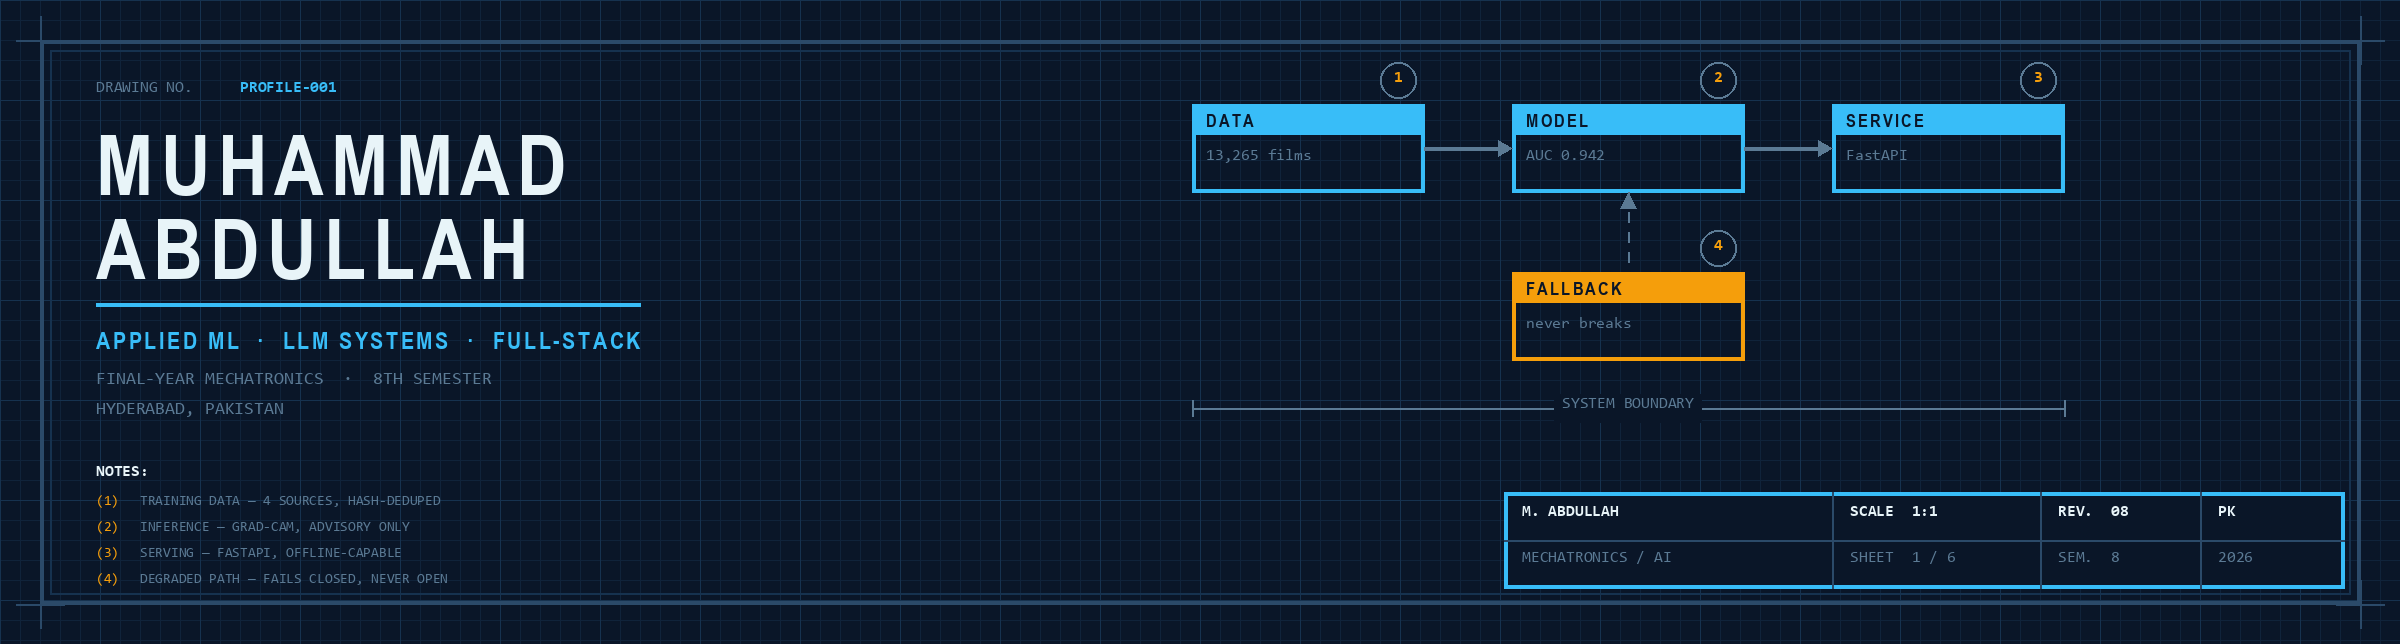
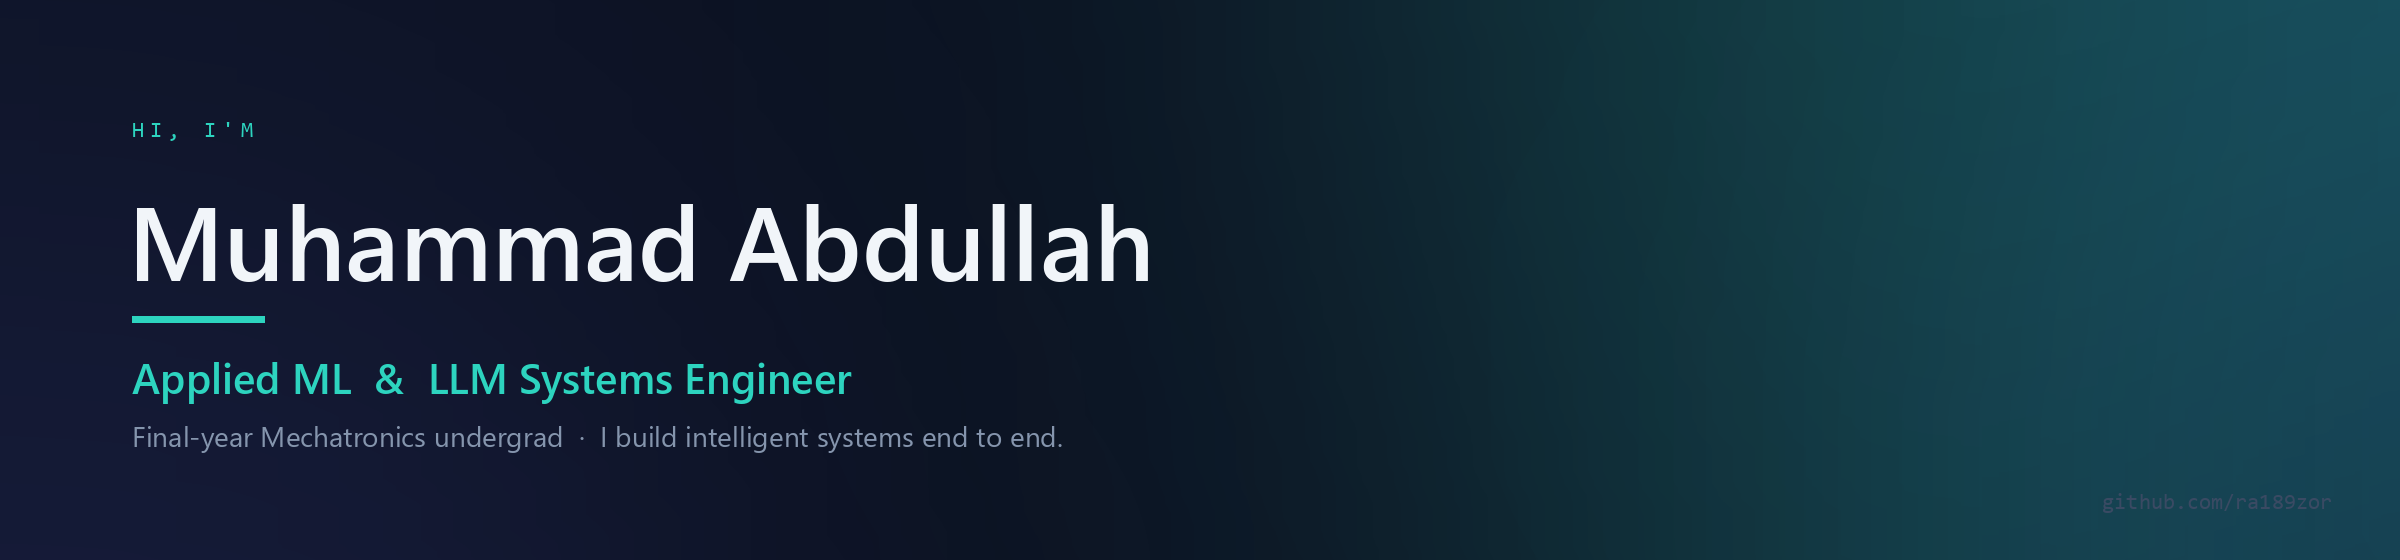
.

diff --git a/README.md b/README.md
@@ -1,202 +1,90 @@
-<img src="assets/banner.png" alt="Muhammad Abdullah - Applied ML, LLM Systems, Full-stack" width="100%" />
+<img src="assets/banner.png" width="100%" alt="Muhammad Abdullah — Applied ML & LLM Systems Engineer" />
 
 <div align="center">
 
-
-<a href="https://www.linkedin.com/in/abdullah-kaimkhani-09b1292b9/">
-<img src="https://img.shields.io/badge/LinkedIn-0A1628?style=for-the-badge&logo=linkedin&logoColor=38BDF8" alt="LinkedIn" /></a>
-<a href="mailto:bbr70686@gmail.com">
-<img src="https://img.shields.io/badge/Email-0A1628?style=for-the-badge&logo=gmail&logoColor=38BDF8" alt="Email" /></a>
-<img src="https://img.shields.io/badge/Hyderabad,_PK-0A1628?style=for-the-badge&logo=googlemaps&logoColor=38BDF8" alt="Location" />
+<a href="https://www.linkedin.com/in/abdullah-kaimkhani-09b1292b9/"><img src="https://img.shields.io/badge/LinkedIn-0B1120?style=for-the-badge&logo=linkedin&logoColor=2DD4BF" alt="LinkedIn" /></a>&nbsp;
+<a href="mailto:bbr70686@gmail.com"><img src="https://img.shields.io/badge/Email-0B1120?style=for-the-badge&logo=gmail&logoColor=2DD4BF" alt="Email" /></a>&nbsp;
+<a href="https://github.com/ra189zor?tab=repositories"><img src="https://img.shields.io/badge/Repositories-0B1120?style=for-the-badge&logo=github&logoColor=2DD4BF" alt="Repositories" /></a>
 
 </div>
 
----
+<br/>
 
-<img src="assets/s01.png" alt="System Identity" width="100%" />
+## 👋 &nbsp; About me
 
-I build applied-ML and LLM systems end to end — train the model, wrap it in a service that fails gracefully, and put a real interface in front of it. The part I care most about is what happens when the model is wrong, the network is gone, or the data is thinner than the claim.
+- 🎓 &nbsp; Final-year **Mechatronics** undergraduate (8th semester) in Hyderabad, Pakistan
+- 🧠 &nbsp; I build **applied-ML and LLM systems end to end** — the model, the service around it, and the interface people actually use
+- 🩺 &nbsp; Proudest of **[Saans](https://github.com/ra189zor/Saans)**, an offline-first paediatric TB-screening app built on the WHO 2022 clinical algorithm
+- 🔍 &nbsp; I care most about the unglamorous parts — what happens when the model is wrong, the network drops, or the data is thinner than the claim
+- 📫 &nbsp; Reach me on [LinkedIn](https://www.linkedin.com/in/abdullah-kaimkhani-09b1292b9/) or at **bbr70686@gmail.com**
 
-Most of what follows is about that.
+<br/>
 
----
+## 🚀 &nbsp; Featured projects
 
-<img src="assets/s02.png" alt="Architecture Overview" width="100%" />
+### 🩺 &nbsp; [Saans](https://github.com/ra189zor/Saans) — offline paediatric TB screening
 
-```mermaid
-flowchart LR
-    subgraph INPUT [ Input Layer ]
-        direction TB
-        D1["13,265 chest X-rays"]
-        D2["1,055 WHO handbook passages"]
-        D3["Cough audio + acoustic features"]
-        D4["Live Discord community traffic"]
-    end
+> An offline-first tablet app for community health workers, implementing the WHO Tuberculosis *Module 5 (2022)* decision algorithm. Three ML assists advise the health worker but can **never** override the clinical score.
 
-    subgraph CORE [ Processing Pipeline ]
-        direction TB
-        P1["ML Training + Grad-CAM"]
-        P2["LLM System Design"]
-        P3["Service Layer + Graceful Degradation"]
-    end
+- **Chest X-ray** — DenseNet121 + Grad-CAM over 13,265 films → **0.942 AUC**, 95.1% recall
+- **Cough analysis** — RandomForest over 66 acoustic features, evaluated *by age band* rather than assumed
+- **WHO assistant** — two-stage local retrieval (MiniLM → cross-encoder rerank) that cites a page or refuses
+- Bilingual English / Urdu with full RTL · installable PWA · runs completely offline
 
-    subgraph OUTPUT [ Output Layer ]
-        direction TB
-        O1["Production Systems"]
-        O2["Honest Benchmarks"]
-        O3["Fail-safe Defaults"]
-    end
+&nbsp;&nbsp;&nbsp;&nbsp;![React](https://img.shields.io/badge/React_19-1E293B?style=flat-square&logo=react&logoColor=61DAFB) ![FastAPI](https://img.shields.io/badge/FastAPI-1E293B?style=flat-square&logo=fastapi&logoColor=009688) ![TensorFlow](https://img.shields.io/badge/TensorFlow-1E293B?style=flat-square&logo=tensorflow&logoColor=FF6F00) ![ONNX](https://img.shields.io/badge/ONNX_Runtime-1E293B?style=flat-square&logo=onnx&logoColor=white) ![Docker](https://img.shields.io/badge/Docker-1E293B?style=flat-square&logo=docker&logoColor=2496ED)
 
-    D1 --> P1
-    P3 --> O1
+### 🤖 &nbsp; AI-Powered Discord Automation Platform &nbsp;·&nbsp; *private*
 
-    classDef input fill:#0A1628,stroke:#38BDF8,color:#38BDF8
-    classDef proc fill:#0A1628,stroke:#7DD3FC,color:#7DD3FC
-    classDef output fill:#0A1628,stroke:#F59E0B,color:#F59E0B
-    class D1,D2,D3,D4 input
-    class P1,P2,P3 proc
-    class O1,O2,O3 output
-```
+> An event-driven Discord bot, an LLM interaction pipeline, and a FastAPI control panel running as one async application for a live community.
 
-> **Cross-cutting concerns applied to every layer:**
-> Security · Privacy by default · Observability · Graceful degradation
+- **Treats the LLM as untrusted** — a 5-layer prompt-injection defence, output filtered before it ever ships, every attempt logged
+- **Runs inside a free-tier budget** — thread-safe multi-key rotation + a token-budget manager that trims context instead of failing
+- 5-layer context injection · function-calling long-term memory · async SQLite (WAL) · 11 scheduled background loops
 
----
+&nbsp;&nbsp;&nbsp;&nbsp;![Python](https://img.shields.io/badge/Python-1E293B?style=flat-square&logo=python&logoColor=3776AB) ![discord.py](https://img.shields.io/badge/discord.py-1E293B?style=flat-square&logo=discord&logoColor=5865F2) ![FastAPI](https://img.shields.io/badge/FastAPI-1E293B?style=flat-square&logo=fastapi&logoColor=009688) ![SQLite](https://img.shields.io/badge/SQLite-1E293B?style=flat-square&logo=sqlite&logoColor=0AA9E6) ![asyncio](https://img.shields.io/badge/asyncio-1E293B?style=flat-square&logo=python&logoColor=3776AB)
 
-<img src="assets/s03.png" alt="Subsystems" width="100%" />
+**Also built**
 
-### `01` Saans — Paediatric TB Screening
+- **[llm-observe-hub](https://github.com/ra189zor/llm-observe-hub)** — an OpenAI-compatible proxy that instruments local LLMs with cost, latency and alerts &nbsp;`FastAPI`
+- **[WorkflowWizard](https://github.com/ra189zor/WorkflowWizard)** — turns plain-English descriptions into importable n8n workflow JSON &nbsp;`React` `TypeScript`
+- **[fraud-detection-agent](https://github.com/ra189zor/fraud-detection-agent)** — Isolation Forest + a six-signal rule engine that learns from analyst feedback &nbsp;`scikit-learn`
+- **[MCP-Studio](https://github.com/ra189zor/MCP-Studio)** — generates and validates MCP servers across three model providers in parallel &nbsp;`asyncio`
 
-> Offline-first tablet app for community health workers implementing the WHO *Operational Handbook on Tuberculosis, Module 5* (2022) decision algorithm. Three ML assists inform the health worker and are **structurally prevented** from changing the score.
+<br/>
 
-```mermaid
-flowchart LR
-    subgraph pipeline [ Screening Pipeline ]
-        direction LR
-        A["Chest X-ray<br/>DenseNet121"] --> F["Clinical<br/>Score"]
-        B["Cough Audio<br/>66 features"] --> F
-        C["WHO Handbook<br/>RAG + Rerank"] --> F
-        F --> G["Health Worker<br/>Decision"]
-    end
+## 🛠 &nbsp; Tech stack
 
-    style pipeline fill:#0A1628,stroke:#38BDF8,color:#38BDF8
-```
+**Languages** &nbsp; ![Python](https://img.shields.io/badge/Python-2DD4BF?style=flat-square&logo=python&logoColor=0B1120) ![TypeScript](https://img.shields.io/badge/TypeScript-2DD4BF?style=flat-square&logo=typescript&logoColor=0B1120) ![JavaScript](https://img.shields.io/badge/JavaScript-2DD4BF?style=flat-square&logo=javascript&logoColor=0B1120) ![SQL](https://img.shields.io/badge/SQL-2DD4BF?style=flat-square&logo=postgresql&logoColor=0B1120)
 
-`0.942` AUC, honest single-site benchmark &nbsp;·&nbsp; `95.1%` recall (271/285) &nbsp;·&nbsp; `98.2%` specificity &nbsp;·&nbsp; `13,265` films across 4 hash-deduped sources
+**ML / Data** &nbsp; ![TensorFlow](https://img.shields.io/badge/TensorFlow-1E293B?style=flat-square&logo=tensorflow&logoColor=FF6F00) ![Keras](https://img.shields.io/badge/Keras-1E293B?style=flat-square&logo=keras&logoColor=D00000) ![scikit-learn](https://img.shields.io/badge/scikit--learn-1E293B?style=flat-square&logo=scikitlearn&logoColor=F7931E) ![ONNX](https://img.shields.io/badge/ONNX-1E293B?style=flat-square&logo=onnx&logoColor=white) ![NumPy](https://img.shields.io/badge/NumPy-1E293B?style=flat-square&logo=numpy&logoColor=4DABCF) ![pandas](https://img.shields.io/badge/pandas-1E293B?style=flat-square&logo=pandas&logoColor=white)
 
-> **The reported AUC is 0.942, not the 0.995 the pooled test set produces.** One source draws its TB and normal films from different collections that differ for reasons unrelated to disease, so the model separates them without reading pathology. The honest benchmark is the single hospital where both classes share equipment. Quoting the inflated number would have been easy, and wrong.
+**LLM** &nbsp; ![LangChain](https://img.shields.io/badge/LangChain-1E293B?style=flat-square&logo=langchain&logoColor=1C3C3C) ![CrewAI](https://img.shields.io/badge/CrewAI-1E293B?style=flat-square) ![RAG](https://img.shields.io/badge/RAG-1E293B?style=flat-square) ![MCP](https://img.shields.io/badge/MCP-1E293B?style=flat-square&logo=anthropic&logoColor=white) ![OpenAI](https://img.shields.io/badge/OpenAI-1E293B?style=flat-square&logo=openai&logoColor=white) ![Groq](https://img.shields.io/badge/Groq-1E293B?style=flat-square)
 
-**Technical detail.** Two-stage local retrieval — MiniLM bi-encoder on ONNX Runtime, then cross-encoder rerank, ~3 ms, refusing before it ever calls an API. No public paediatric dataset exists, so every model was trained on adults and scored *by age band* rather than assumed to transfer. Bilingual EN/UR with full RTL, installable PWA, fully offline.
+**Backend** &nbsp; ![FastAPI](https://img.shields.io/badge/FastAPI-1E293B?style=flat-square&logo=fastapi&logoColor=009688) ![Express](https://img.shields.io/badge/Express-1E293B?style=flat-square&logo=express&logoColor=white) ![PostgreSQL](https://img.shields.io/badge/PostgreSQL-1E293B?style=flat-square&logo=postgresql&logoColor=4169E1) ![SQLite](https://img.shields.io/badge/SQLite-1E293B?style=flat-square&logo=sqlite&logoColor=0AA9E6) ![SQLAlchemy](https://img.shields.io/badge/SQLAlchemy-1E293B?style=flat-square&logo=sqlalchemy&logoColor=white)
 
-<img src="https://img.shields.io/badge/React_19-0A1628?style=flat-square&logo=react&logoColor=38BDF8" height="22" /> <img src="https://img.shields.io/badge/FastAPI-0A1628?style=flat-square&logo=fastapi&logoColor=38BDF8" height="22" /> <img src="https://img.shields.io/badge/TensorFlow-0A1628?style=flat-square&logo=tensorflow&logoColor=38BDF8" height="22" /> <img src="https://img.shields.io/badge/ONNX_Runtime-0A1628?style=flat-square&logo=onnx&logoColor=38BDF8" height="22" /> <img src="https://img.shields.io/badge/Docker-0A1628?style=flat-square&logo=docker&logoColor=38BDF8" height="22" />
+**Frontend & Infra** &nbsp; ![React](https://img.shields.io/badge/React-1E293B?style=flat-square&logo=react&logoColor=61DAFB) ![Vite](https://img.shields.io/badge/Vite-1E293B?style=flat-square&logo=vite&logoColor=646CFF) ![Tailwind](https://img.shields.io/badge/Tailwind-1E293B?style=flat-square&logo=tailwindcss&logoColor=06B6D4) ![Streamlit](https://img.shields.io/badge/Streamlit-1E293B?style=flat-square&logo=streamlit&logoColor=FF4B4B) ![Docker](https://img.shields.io/badge/Docker-1E293B?style=flat-square&logo=docker&logoColor=2496ED)
 
-**[-> Read the code and the limitations](https://github.com/ra189zor/Saans)** &nbsp; <img src="https://img.shields.io/github/last-commit/ra189zor/Saans?style=flat-square&label=last%20commit&color=0A1628&labelColor=0A1628" height="20" />
+<br/>
 
----
+## 📊 &nbsp; GitHub
 
-### `02` Discord AI Platform — Automation and Security
+<div align="center">
 
-> Event-driven Discord bot + LLM interaction pipeline + FastAPI control panel, running as one async application. Closed-source — engineering described, not linked.
+<img height="165" src="https://github-readme-stats-eight-theta.vercel.app/api?username=ra189zor&show_icons=true&include_all_commits=true&count_private=true&hide_border=true&bg_color=00000000&title_color=2DD4BF&icon_color=2DD4BF&text_color=8595AD" alt="GitHub stats" />
+&nbsp;&nbsp;
+<img height="165" src="https://streak-stats.demolab.com/?user=ra189zor&hide_border=true&background=00000000&stroke=1E293B&ring=2DD4BF&fire=2DD4BF&currStreakLabel=2DD4BF&currStreakNum=F1F5F9&sideLabels=8595AD&sideNums=F1F5F9&dates=475569&excludeDaysLabel=475569" alt="Contribution streak" />
 
-```mermaid
-flowchart LR
-    subgraph flow [ Request Lifecycle ]
-        direction LR
-        A["User Input"] --> B["5 Defence<br/>Layers"]
-        B --> C["LLM + 5 Context<br/>Layers"]
-        C --> D["Output<br/>Filter"]
-        D --> E["Response"]
-        B -.-> F["Security<br/>Log"]
-        D -.-> F
-    end
+</div>
 
-    style flow fill:#0A1628,stroke:#38BDF8,color:#38BDF8
-```
+<br/>
 
-`5` defence layers against prompt injection &nbsp;·&nbsp; `5` context layers per LLM call &nbsp;·&nbsp; `11` background loops &nbsp;·&nbsp; `37` slash commands
+## 🤝 &nbsp; Connect
 
-> **Treating the LLM as untrusted, in both directions.** User input is delimiter-wrapped and pre-filtered for jailbreak patterns; tools are sandboxed with zero `eval`/`exec` and every query partitioned by guild; generated output is post-filtered for system-prompt leakage before it reaches anyone. Blocked inputs and leaked outputs are both written to a security log the admin panel surfaces — an attack surface you can actually watch.
+<div align="center">
 
-**Engineering highlights.** Thread-safe multi-key rotation pool reads `x-ratelimit-remaining-*` headers off every response to rotate *before* limits land, and honours `retry-after` cooldowns on 429. Token budget manager trims conversation history and drops tool definitions dynamically to stay under the per-minute ceiling instead of failing with a 413. Five-layer context injection per call, LLM function calling for persistent memory, async SQLite on `aiosqlite` (WAL, startup migrations, `contextvars`-scoped connections), internal HTTP API for bot-dashboard IPC, fails-closed feature flags, and a Pillow canvas renderer for generated cards.
+**Open to internships and junior roles in ML engineering and applied AI.**
 
-<img src="https://img.shields.io/badge/Python-0A1628?style=flat-square&logo=python&logoColor=38BDF8" height="22" /> <img src="https://img.shields.io/badge/discord.py-0A1628?style=flat-square&logo=discord&logoColor=38BDF8" height="22" /> <img src="https://img.shields.io/badge/FastAPI-0A1628?style=flat-square&logo=fastapi&logoColor=38BDF8" height="22" /> <img src="https://img.shields.io/badge/SQLite-0A1628?style=flat-square&logo=sqlite&logoColor=38BDF8" height="22" /> <img src="https://img.shields.io/badge/asyncio-0A1628?style=flat-square&logo=python&logoColor=38BDF8" height="22" /> <img src="https://img.shields.io/badge/Docker-0A1628?style=flat-square&logo=docker&logoColor=38BDF8" height="22" />
+<a href="https://www.linkedin.com/in/abdullah-kaimkhani-09b1292b9/"><img src="https://img.shields.io/badge/LinkedIn-0B1120?style=for-the-badge&logo=linkedin&logoColor=2DD4BF" alt="LinkedIn" /></a>&nbsp;
+<a href="mailto:bbr70686@gmail.com"><img src="https://img.shields.io/badge/Email-0B1120?style=for-the-badge&logo=gmail&logoColor=2DD4BF" alt="Email" /></a>
 
----
-
-### Supporting Systems
-
-| Project | What it is | Stack |
-|:--|:--|:--|
-| **[llm-observe-hub](https://github.com/ra189zor/llm-observe-hub)** | OpenAI-compatible proxy that instruments local LLMs — streaming pass-through, per-request cost and latency, alert engine, budgets. | `FastAPI` `SQLAlchemy` `httpx` |
-| **[WorkflowWizard](https://github.com/ra189zor/WorkflowWizard)** | Plain-English descriptions to validated, importable n8n workflow JSON. Session auth, Postgres, billing, usage metering. | `React` `TypeScript` `Drizzle` `Neon` |
-| **[MCP-Studio](https://github.com/ra189zor/MCP-Studio)** | Generates and validates MCP servers, fanning one task across Anthropic, OpenAI and Google models in parallel. | `asyncio` `PostgreSQL` `Streamlit` |
-
-
-<sub>**[MindFlow](https://github.com/ra189zor/MindFlow)** and **[JobNexus](https://github.com/ra189zor/JobNexus)** are where the multi-agent pattern I keep reaching for got worked out: specialist agents behind a validator that checks their output against the original constraints and returns it for revision until it passes or hits a cap. Also built: **[fraud-detection-agent](https://github.com/ra189zor/fraud-detection-agent)** — hybrid Isolation Forest / One-Class SVM with a six-signal rule engine; **[AI-Venture-Capital-Scout](https://github.com/ra189zor/AI-Venture-Capital-Scout)** — CrewAI agent crew paired with a TensorFlow founder-success model.</sub>
-
----
-
-<img src="assets/s04.png" alt="Tech Stack" width="100%" />
-
-**ML & Vision** &nbsp; <img src="https://img.shields.io/badge/TensorFlow-0A1628?style=flat-square&logo=tensorflow&logoColor=38BDF8" height="24" /> <img src="https://img.shields.io/badge/Keras-0A1628?style=flat-square&logo=keras&logoColor=38BDF8" height="24" /> <img src="https://img.shields.io/badge/scikit--learn-0A1628?style=flat-square&logo=scikitlearn&logoColor=38BDF8" height="24" /> <img src="https://img.shields.io/badge/ONNX_Runtime-0A1628?style=flat-square&logo=onnx&logoColor=38BDF8" height="24" /> <img src="https://img.shields.io/badge/NumPy-0A1628?style=flat-square&logo=numpy&logoColor=38BDF8" height="24" /> <img src="https://img.shields.io/badge/pandas-0A1628?style=flat-square&logo=pandas&logoColor=38BDF8" height="24" />
-
-**LLM systems** &nbsp; <img src="https://img.shields.io/badge/RAG_+_reranking-0A1628?style=flat-square" height="24" /> <img src="https://img.shields.io/badge/LangChain-0A1628?style=flat-square&logo=langchain&logoColor=38BDF8" height="24" /> <img src="https://img.shields.io/badge/CrewAI-0A1628?style=flat-square" height="24" /> <img src="https://img.shields.io/badge/MCP-0A1628?style=flat-square&logo=anthropic&logoColor=38BDF8" height="24" /> <img src="https://img.shields.io/badge/OpenAI-0A1628?style=flat-square&logo=openai&logoColor=38BDF8" height="24" /> <img src="https://img.shields.io/badge/Groq-0A1628?style=flat-square" height="24" />
-
-**Backend** &nbsp; <img src="https://img.shields.io/badge/Python-0A1628?style=flat-square&logo=python&logoColor=38BDF8" height="24" /> <img src="https://img.shields.io/badge/FastAPI-0A1628?style=flat-square&logo=fastapi&logoColor=38BDF8" height="24" /> <img src="https://img.shields.io/badge/Express-0A1628?style=flat-square&logo=express&logoColor=38BDF8" height="24" /> <img src="https://img.shields.io/badge/PostgreSQL-0A1628?style=flat-square&logo=postgresql&logoColor=38BDF8" height="24" /> <img src="https://img.shields.io/badge/SQLite-0A1628?style=flat-square&logo=sqlite&logoColor=38BDF8" height="24" /> <img src="https://img.shields.io/badge/SQLAlchemy-0A1628?style=flat-square&logo=sqlalchemy&logoColor=38BDF8" height="24" />
-
-**Frontend & Infra** &nbsp; <img src="https://img.shields.io/badge/React-0A1628?style=flat-square&logo=react&logoColor=38BDF8" height="24" /> <img src="https://img.shields.io/badge/TypeScript-0A1628?style=flat-square&logo=typescript&logoColor=38BDF8" height="24" /> <img src="https://img.shields.io/badge/Vite-0A1628?style=flat-square&logo=vite&logoColor=38BDF8" height="24" /> <img src="https://img.shields.io/badge/Tailwind-0A1628?style=flat-square&logo=tailwindcss&logoColor=38BDF8" height="24" /> <img src="https://img.shields.io/badge/Streamlit-0A1628?style=flat-square&logo=streamlit&logoColor=38BDF8" height="24" /> <img src="https://img.shields.io/badge/Docker-0A1628?style=flat-square&logo=docker&logoColor=38BDF8" height="24" />
-
----
-
-<img src="assets/s05.png" alt="Operational Principles" width="100%" />
-
-```mermaid
-stateDiagram-v2
-    [*] --> Nominal
-
-    Nominal --> Fallback : dependency fails
-    Fallback --> Nominal : recovered
-    Fallback --> Degraded : cascading failure
-    Degraded --> Fallback : partial recovery
-    Degraded --> SafeState : all fallbacks exhausted
-    SafeState --> Nominal : manual intervention
-
-    note right of Nominal : All systems operational
-    note right of Degraded : Reduced capability, no crash
-    note right of SafeState : Fails closed, never open
-```
-
-| # | Principle | Evidence |
-|:--|:--|:--|
-| `01` | **Measure instead of assuming** | Cough model scored by age band since it was trained on adults. Three embedding models benchmarked — the 440 MB candidates were *worse*, so the 87 MB one shipped. |
-| `02` | **Degrade, don't break** | No API key, no reranker, no network, no model weights, no rate-limit headroom — each has a defined fallback. Energy-based burst detector runs beside the trained classifier. |
-| `03` | **Read the dependency graph** | ChromaDB rejected because its protobuf silently breaks TensorFlow. TF pinned below 2.16 because Keras 3 cannot build the Grad-CAM sub-model. Reasoning lives in `requirements.txt`. |
-| `04` | **Safe and private by default** | Field data collection off by default, consent per capture, nothing identifying written. Feature flags fail closed. LLM output filtered before reaching any user. |
-
----
-
-<img src="assets/s06.png" alt="Endpoints" width="100%" />
-
-```yaml
-GET /contact:
-  - type: LinkedIn
-    uri: https://www.linkedin.com/in/abdullah-kaimkhani-09b1292b9/
-  - type: Email
-    uri: bbr70686@gmail.com
-  - type: Repositories
-    uri: https://github.com/ra189zor?tab=repositories
-```
-
-> **Open to internships and junior roles in ML engineering and applied AI** — happy to talk through any of the work above, including the parts that didn't work.
-
-<a href="https://www.linkedin.com/in/abdullah-kaimkhani-09b1292b9/">
-<img src="https://img.shields.io/badge/LinkedIn-0A1628?style=for-the-badge&logo=linkedin&logoColor=38BDF8" alt="LinkedIn" /></a>
-<a href="mailto:bbr70686@gmail.com">
-<img src="https://img.shields.io/badge/bbr70686@gmail.com-0A1628?style=for-the-badge&logo=gmail&logoColor=38BDF8" alt="Email" /></a>
-<a href="https://github.com/ra189zor?tab=repositories">
-<img src="https://img.shields.io/badge/All_repositories-0A1628?style=for-the-badge&logo=github&logoColor=38BDF8" alt="Repositories" /></a>
-
-<sub>
-<img src="https://img.shields.io/github/followers/ra189zor?style=flat-square&logo=github&label=followers&color=0A1628&labelColor=0A1628" height="20" />
-<img src="https://img.shields.io/github/last-commit/ra189zor/Saans?style=flat-square&label=last%20push&color=0A1628&labelColor=0A1628" height="20" />
-</sub>
+</div>
